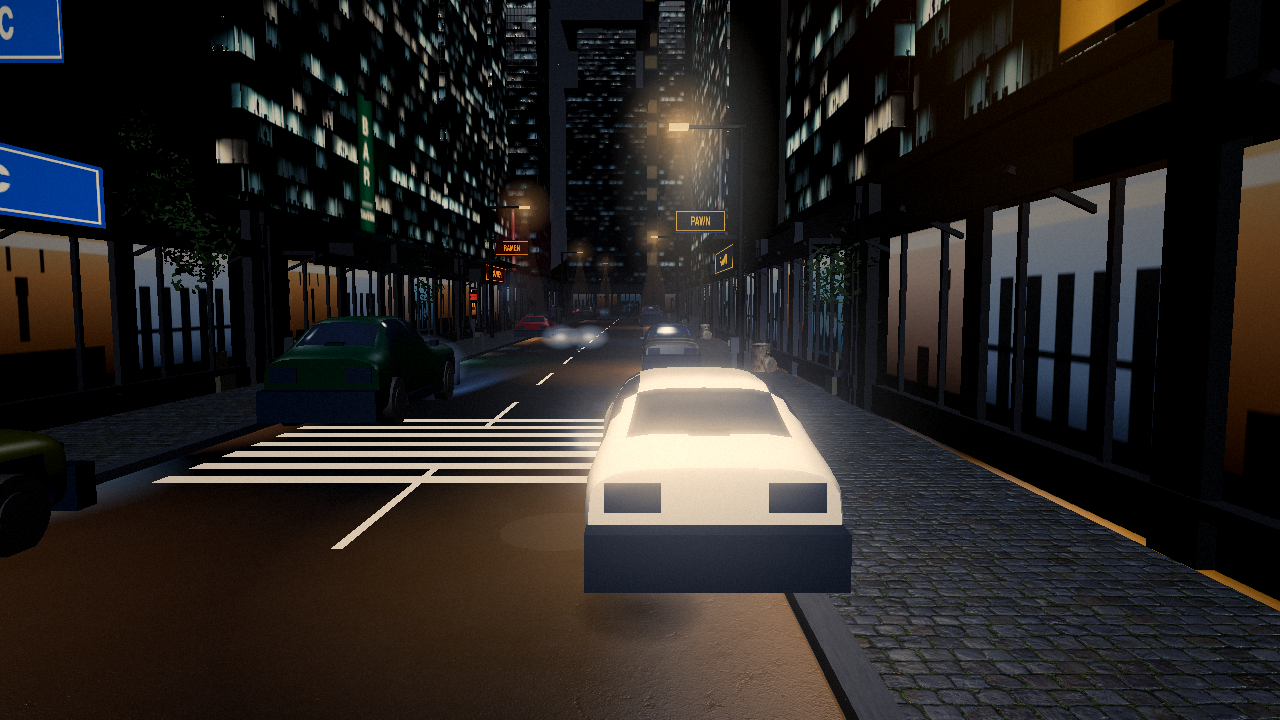
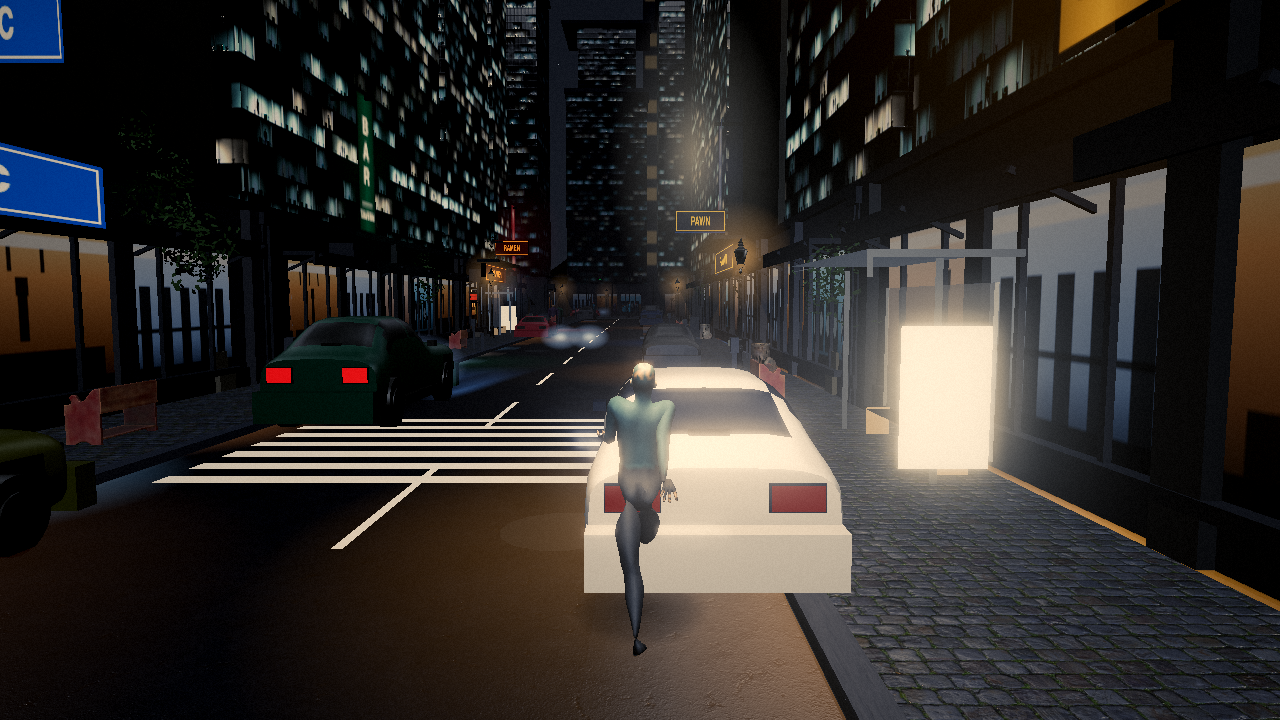
M2.F4b (M2-1): the saloon sits on its wheels
Task M2.F4b, filled by opencode-go/deepseek-v4.1-flash and checked by scripts/crew.mjs: task checks green, draws 125.

diff --git a/src/render/traffic.js b/src/render/traffic.js
@@ -223,9 +223,12 @@ export const beamGeo = mergeGeometries([
   (() => { const g = new THREE.PlaneGeometry(0.35, 0.18); g.translate(-0.55, 0.7, 2.11); return g; })(),
   (() => { const g = new THREE.PlaneGeometry(0.35, 0.18); g.translate(0.55, 0.7, 2.11); return g; })(),
 ]);
+// Tail lens quads ride the saloon's rear lens boxes (face at z -2.125): 1.5 cm
+// proud of it, 1 cm inside its bezel, so the red is the surface the chase
+// camera sees instead of a plane buried inside the box (M2.F4b).
 export const tailGeo = mergeGeometries([
-  (() => { const g = new THREE.PlaneGeometry(0.3, 0.12); g.rotateY(Math.PI); g.translate(-0.55, 0.75, -2.11); return g; })(),
-  (() => { const g = new THREE.PlaneGeometry(0.3, 0.12); g.rotateY(Math.PI); g.translate(0.55, 0.75, -2.11); return g; })(),
+  (() => { const g = new THREE.PlaneGeometry(0.36, 0.18); g.rotateY(Math.PI); g.translate(-0.55, 0.75, -2.14); return g; })(),
+  (() => { const g = new THREE.PlaneGeometry(0.36, 0.18); g.rotateY(Math.PI); g.translate(0.55, 0.75, -2.14); return g; })(),
 ]);
 // Saloon glass; the fleet folds all five bands into one geometry below.
 const canopyGeo = carGlassGeo(CAR_SPECS[0]);
@@ -430,6 +433,9 @@ function loadFleetModels(rig) {
     // per-car instanceColor, with vertex colours carrying what paint does not.
     const solidMat = out.paintMat.clone();
     solidMat.vertexColors = true;
+    // A hard floor (M2.F4b): below 0.35 a street lamp gave a white-out, not a
+    // highlight, whatever the model file said.
+    solidMat.roughness = Math.max(0.35, solidMat.roughness);
     rig.bodies.meshes.forEach((mesh, s) => {
       mesh.geometry.dispose();
       mesh.geometry = fleetVariant(solid, FLEET_SHAPES[s].s);
@@ -557,7 +563,7 @@ export function buildTraffic(street) {
   // Metalness down, env down, roughness up a touch: the paint keeps its
   // colour, and there is still enough gloss for shop and street light to land on it.
   const paintMat = new THREE.MeshStandardMaterial({
-    roughness: 0.32, metalness: 0.14, envMapIntensity: 1.05,
+    roughness: 0.42, metalness: 0.14, envMapIntensity: 1.05,
   });
   const shapeCounts = FLEET_SHAPES.map(() => 0);
   const slots = street.cars.map((c) => {
@@ -757,6 +763,7 @@ function loadHeroBody(rig) {
     const out = { paintGeos: [], trimGeos: [], wheelGeos: [] };
     gltf.scene.traverse((o) => { if (o.isMesh) heroSort(o, out); });
     if (!out.paintGeos.length) return;
+    out.paintMat.roughness = Math.max(0.35, out.paintMat.roughness);
     const paint = heroBodyMesh(out.paintGeos, out.paintMat, 'hero-body', true);
     rig.group.add(paint);
     rig.paint = paint;

diff --git a/tools/models/make_saloon.py b/tools/models/make_saloon.py
@@ -118,10 +118,13 @@ def paint_texture(material):
     # The game's hero/traffic sort classifies a part as paint by the presence
     # of a baseColorTexture (render/traffic.js heroSort), so the paint material
     # must carry one. A near-white 8x8 lets the fleet's per-car instanceColor
-    # tint it; the hero car reads as the light grey the pixel holds.
+    # tint it; the hero car reads as the light grey the pixel holds. The byte is
+    # capped at 0.78 (= #c7) by M2.F4b: 0.82 blew out to flat white under the
+    # street lamps. Blender writes the pixel straight to the PNG, so the stored
+    # byte is the sRGB the driver sees.
     path = os.path.join(tempfile.gettempdir(), "urbis_saloon_paint.png")
     img = bpy.data.images.new("SaloonPaint", 8, 8, alpha=False)
-    img.pixels = [0.82, 0.83, 0.85, 1.0] * (8 * 8)
+    img.pixels = [0.78, 0.785, 0.79, 1.0] * (8 * 8)
     img.filepath_raw = path
     img.file_format = "PNG"
     img.save()
@@ -286,7 +289,7 @@ def main():
     sc.unit_settings.length_unit = "METERS"
     sc.unit_settings.scale_length = 1.0
 
-    paint = principled("Paint", (0.80, 0.81, 0.83), 0.30, 0.15)
+    paint = principled("Paint", (0.78, 0.785, 0.79), 0.42, 0.15)
     paint_texture(paint)
     glass = principled("Glass", (0.02, 0.03, 0.05), 0.08, 0.35)
     tyre = principled("Tyre", (0.018, 0.018, 0.02), 0.92, 0.0)
@@ -304,10 +307,16 @@ def main():
         ((-0.55, 0.75, -2.075), (0.38, 0.20, 0.10)),
     ], light)
 
-    trim_parts = boxes("TrimParts", [
+    # Bumpers are the car's length and its lowest painted line: they must wear
+    # the body colour. In dark trim they read as a rectangular plinth the car
+    # sat on (M2.F4b) and hid the wheels from a rear-quarter camera.
+    bumpers = boxes("Bumpers", [
         ((0.0, 0.38, 2.18), (1.72, 0.40, 0.24)),    # front bumper
-        ((0.0, 0.52, 2.12), (0.72, 0.20, 0.12)),    # grille
         ((0.0, 0.37, -2.16), (1.72, 0.38, 0.28)),   # rear bumper
+    ], paint)
+
+    trim_parts = boxes("TrimParts", [
+        ((0.0, 0.52, 2.12), (0.72, 0.20, 0.12)),    # grille
         ((0.855, 0.30, 0.0), (0.07, 0.14, 2.0)),    # right rocker
         ((-0.855, 0.30, 0.0), (0.07, 0.14, 2.0)),   # left rocker
         ((0.90, 1.02, 0.40), (0.13, 0.09, 0.17)),   # right mirror
@@ -322,7 +331,7 @@ def main():
         make_wheel("Wheel_RR", TRACK_X, AXLE_R, tyre),
     ]
 
-    objs = [body, lights, trim_parts] + wheels
+    objs = [body, bumpers, lights, trim_parts] + wheels
     for o in objs:
         add_uvs(o)
         crease_and_smooth(o)
